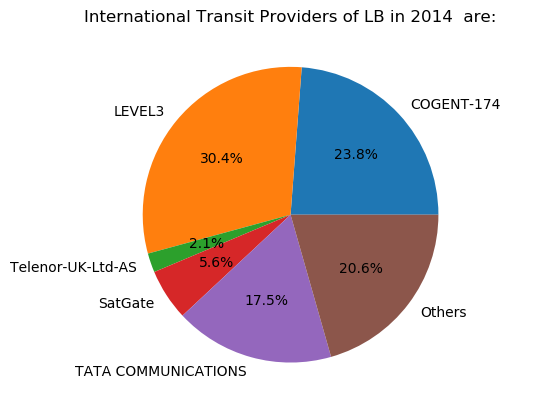
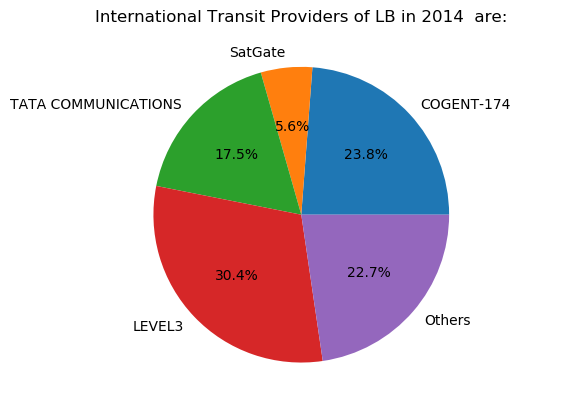
Satelite Providers Of  Lebanon

diff --git a/3-regional-isp/Projet_Ecosysteme_Finale.py b/3-regional-isp/Projet_Ecosysteme_Finale.py
@@ -49,15 +49,35 @@ def get_country_neighbours(country_code, country_asns):
     print(country_neighbours)
     return country_neighbours
 
+def get_country_neighbours_Satelite(country_code, country_asns):
+    country_neighbours={}
+    for asn in country_asns:
+        if(asn!='42020'):
+            #print("studying: ", asn)
+            api_url = '{}asn-neighbours/data.json?resource={}'.format(api_url_base, asn)
+            asn_neighbours_json1 = requests.get(api_url)
+            if (asn_neighbours_json1.status_code == 200):
+                asn_neighbours_json = json.loads(asn_neighbours_json1.content.decode('utf-8'))
+                for neighbour in asn_neighbours_json['data']['neighbours']:
+                    neighbour_asn = str(neighbour['asn'])
+                    neighbour_power = int(neighbour['power'])
+                    if (neighbour['type']=='left' and neighbour_asn not in country_asns):
+                        if (neighbour_asn not in country_neighbours):
+                            country_neighbours[neighbour_asn] = neighbour_power
+                        else:
+                            country_neighbours[neighbour_asn] = country_neighbours[neighbour_asn] + neighbour_power
+    #print("Les satelite providers du liban sont "+str(country_neighbours))
+    return country_neighbours
+
 def get_country_neighbours_Level3(country_code, country_asns):
     country_neighbours_division={}
     Liste_AS_libanais=[]
     Liste_AS_libanais_power=[]
     for asn in country_asns:
         print("studying: ", asn)
-        api_url = '{}asn-neighbours/data.json?resource={}&lod=1'.format(api_url_base, asn)
+        api_url = '{}asn-neighbours/data.json?resource={}'.format(api_url_base, asn)
         asn_neighbours_json = requests.get(api_url).json()
-        for neighbour in asn_neighbours_json['data']['neighbours']:
+        for neighbour in asn_neighbours_json['data']['neighbours']:                  #Pour  savoir a quel AS libanais Level 3 offre de l'internet 
             neighbour_asn = str(neighbour['asn'])
             neighbour_power = int(neighbour['power'])
             if (neighbour_asn=='3356'):
@@ -68,70 +88,8 @@ def get_country_neighbours_Level3(country_code, country_asns):
     print(country_neighbours_division)
     DESSINER_DIAGRAMME_Level3(Liste_AS_libanais,Liste_AS_libanais_power,'3356')
 
-def get_country_neighbours_Level3_2(country_code, country_asns):
-    country_neighbours_division={}
-    Liste_AS_libanais=[]
-    Liste_AS_libanais_power=[]
-    for asn in country_asns:
-        print("studying: ", asn)
-        api_url = '{}asn-neighbours/data.json?resource={}&lod=1'.format(api_url_base, asn)
-        asn_neighbours_json = requests.get(api_url).json()
-        for neighbour in asn_neighbours_json['data']['neighbours']:
-            neighbour_asn = str(neighbour['asn'])
-            neighbour_power = int(neighbour['power'])
-            if (neighbour_asn not in country_asns ):
-                Liste_AS_libanais.append(asn)
-                Liste_AS_libanais_power.append(neighbour_power)
-                country_neighbours_division[neighbour_asn]=Liste_AS_libanais
-                Liste_AS_libanais.clear()
-                Liste_AS_libanais_power.clear()
-    print("Power: "+str(Liste_AS_libanais_power))         
-    print(country_neighbours_division)
-    DESSINER_DIAGRAMME_Level3(Liste_AS_libanais,Liste_AS_libanais_power,'3356')
 
-   
-'''
-def get_ISP_LB(country_asns):
-    Liste={}
-    #https://stat.ripe.net/data/asn-neighbours/data.json?resource=AS9051
-    for asn in country_asns:
-        if(asn!="42020"):
-            api_url = '{}asn-neighbours/data.json?resource={}'.format(api_url_base, asn)
-            asn_neighbours_json = requests.get(api_url).json()
-            for neighbour in asn_neighbours_json['data']['neighbours']:
-                neighbour_asn = str(neighbour['asn'])
-                if (neighbour['type']=='left' and neighbour_asn not in country_asns):
-                    Liste[asn]=neighbour_asn 
-    print(Liste)
-    Transforme_Dic_Liste(Liste)
-    
-def Transforme_Dic_Liste(dic):
-    Cle=[]
-    Value=[]
-    for i in dic.keys():
-        Cle.append(i)
-    for j in dic.values():
-        Value.append(j)
-    x=get_country_neighbours('LB', Cle)
-    print(x)
-    '''
-'''
-def get_neighbours_AS(AS,country_asns):
-    AS_neighbours={}
-    Liste=[]
-    Neighbours=[]
-    api_url = '{}asn-neighbours/data.json?resource={}&lod=1'.format(api_url_base,AS)
-    asn_neighbours_json = requests.get(api_url).json()
-    for neighbour in asn_neighbours_json['data']['neighbours']:
-        neighbour_asn = str(neighbour['asn'])
-        neighbour_power = int(neighbour['power'])
-        if (neighbour['type']=='left' and neighbour_asn not in country_asns):
-            Neighbours.append(neighbour_asn)
-            Liste.append(neighbour_power)
-    AS_neighbours[AS]=Liste
-    DESSINER_DIAGRAMME(Neighbours,Liste,AS)
 
-'''
 
 def indexall(lst, value):
 	return [i for i, v in enumerate(lst) if v == value]
@@ -151,7 +109,7 @@ def Remplir_liste_Pays(Dic,Country):
     Labels_Delete=[]
     Value_Delete=[]
     for clee in Value:
-        if(((clee*100)/power_total) < 2):           #on ajoute tous les AS avec un pourcentage moins que 4% dans la categorie Others
+        if(((clee*100)/power_total) < 2.5):           #on ajoute tous les AS avec un pourcentage moins que 4% dans la categorie Others
             others=others+clee
             ind=indexall(Value,clee)
             print(ind)
@@ -168,9 +126,43 @@ def Remplir_liste_Pays(Dic,Country):
     print("taille de Labels "+str(len(Labels)))
     print(Value)
     print("taille de Value "+str(len(Value)))
-    
-    
     DESSINER_DIAGRAMME(Labels,Value,Country)
+
+def Remplir_liste_Satelite(Dic,Country):
+    Labels=[]
+    Value=[]
+    power_total=0
+    others=0
+    for cle in Dic.keys():
+        Labels.append(cle)
+    print(Labels)
+    for cle1 in Dic.values():
+        Value.append(cle1)
+        power_total=power_total+cle1
+    print(Value)
+    Labels_Delete=[]
+    Value_Delete=[]
+    for clee in Value:
+        if(((clee*100)/power_total) < 2.5):           #on ajoute tous les AS avec un pourcentage moins que 4% dans la categorie Others
+            others=others+clee
+            ind=indexall(Value,clee)
+            print(ind)
+            for h in ind:
+                Labels_Delete.append(Labels[h])
+                Value_Delete.append(Value[h])
+    
+    Value.append(others)
+    Value=[n for n in Value if n not in Value_Delete]
+    Labels=[n for n in Labels if n not in Labels_Delete]
+    print()
+    print("--------------")
+    print(Labels)
+    print("taille de Labels "+str(len(Labels)))
+    print(Value)
+    print("taille de Value "+str(len(Value)))
+    DESSINER_DIAGRAMME_Satelite(Labels,Value,Country)
+
+
 
 def Remplir_liste_Pays2(Dic,Country,year):
     Labels=[]
@@ -185,7 +177,7 @@ def Remplir_liste_Pays2(Dic,Country,year):
     Labels_Delete=[]
     Value_Delete=[]
     for clee in Value:
-        if(((clee*100)/power_total) < 2):   #on ajoute tous les AS avec un pourcentage moins que 4% dans la categorie Others
+        if(((clee*100)/power_total) < 2.5):   #on ajoute tous les AS avec un pourcentage moins que 4% dans la categorie Others
             others=others+clee
             ind=indexall(Value,clee)
             for h in ind:
@@ -237,11 +229,34 @@ def DESSINER_DIAGRAMME(liste,f,ASN):
         plt.title("International Transit Providers of "+ASN+" :")
         x=GET_NAME(liste)
         x.append("Others")
-        labels=x
+        print(x)
+        labels=list(x)
         sizes=f
         plt.axis('equal')
         plt.pie(sizes,labels=labels,autopct='%0.1f%%')
         plt.savefig('C:/Users/abraham/Documents/GitHub/internet-ecosystem-evolution-esib/3-regional-isp/Graphs/'+ASN+'.png',bbox_inches='tight')
+        plt.legend()
+        plt.show()
+        
+        
+    else:
+        print("Ce AS ne possede pas de International Transit Providers")
+        print()
+
+def DESSINER_DIAGRAMME_Satelite(liste,f,ASN):
+    labels=[]
+    sizes=[]
+    x=[]
+    if(liste!=[]):
+        plt.title("Internet Satelite Providers of "+ASN+" :")
+        x=GET_NAME(liste)
+        x.append("Others")
+        print(x)
+        labels=list(x)
+        sizes=f
+        plt.axis('equal')
+        plt.pie(sizes,labels=labels,autopct='%0.1f%%')
+        plt.savefig('C:/Users/abraham/Documents/GitHub/internet-ecosystem-evolution-esib/3-regional-isp/Graphs/'+ASN+'_Satelite.png',bbox_inches='tight')
         plt.legend()
         plt.show()
         
@@ -328,11 +343,10 @@ def start():
         else:
             country_asns = get_country_asn(country_code)
             country_neighbours = get_country_neighbours(country_code, country_asns)
-            #get_ISP_LB(country_asns)
-            #get_country_neighbours_Level3_2(country_code,country_asns)
+            Satelite=get_country_neighbours_Satelite(country_code, country_asns)
+            Remplir_liste_Satelite(Satelite,country_code)
             print()
             print()
-            print("hehe"+str(country_neighbours))
             Remplir_liste_Pays(country_neighbours,country_code)
             print("c'est Fini")
             Continuer = input("Do you want to see the International Providers of another country: ")
